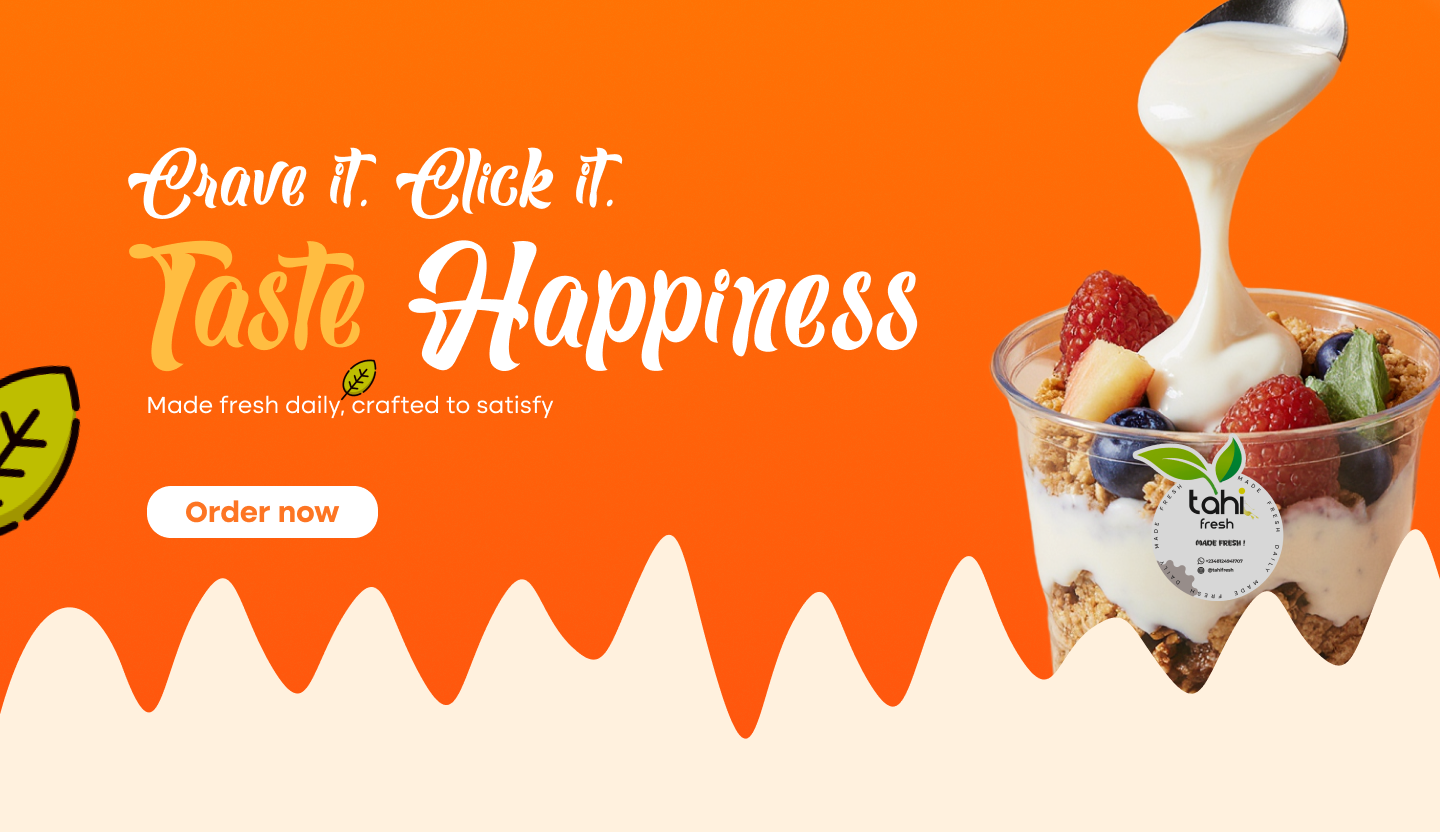
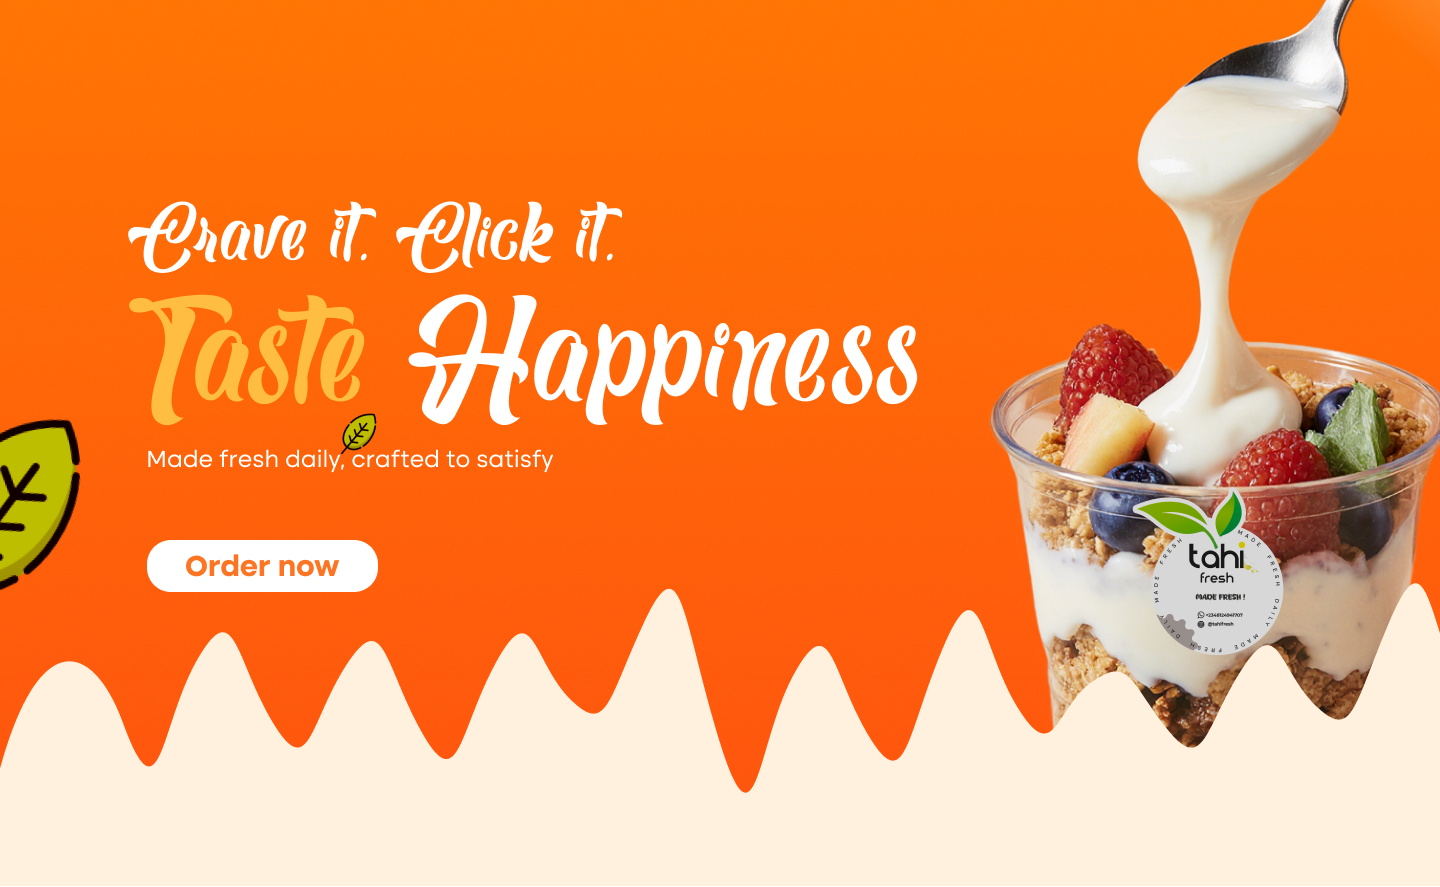
made some changes recommended by the business owner

diff --git a/src/components/navbar.tsx b/src/components/navbar.tsx
@@ -1,50 +1,82 @@
 
 import logo from "../assets/logo.svg"
 import cart from "../assets/cart.svg"
+import { useState } from "react";
 export default function Navbar() {
- 
+ const [isOpen, setIsOpen] = useState(false);
 
   return (
     
 
 
-<nav className="bg-white fixed w-full border-b-1  border-[#FF7B06] z-20 top-0 start-0 dark:bg-gray-900">
-  <div className="max-w-screen-xl flex flex-wrap justify-between items-center mx-auto py-2 px-4">
-    <a href="https://flowbite.com/" className="flex items-center space-x-3 rtl:space-x-reverse">
-        <img src={logo} className="h-[3rem]" alt=" Logo" />
-        
-    </a>
-    <button data-collapse-toggle="navbar-default" type="button" className="inline-flex items-center p-2 w-10 h-10 justify-center text-sm text-gray-500 rounded-lg md:hidden hover:bg-gray-100 focus:outline-none focus:ring-2 focus:ring-gray-200 dark:text-gray-400 dark:hover:bg-gray-700 dark:focus:ring-gray-600" aria-controls="navbar-default" aria-expanded="false">
-        <span className="sr-only">Open main menu</span>
-        <svg className="w-5 h-5" aria-hidden="true" xmlns="http://www.w3.org/2000/svg" fill="none" viewBox="0 0 17 14">
-            <path stroke="currentColor" stroke-linecap="round" stroke-linejoin="round" stroke-width="2" d="M1 1h15M1 7h15M1 13h15"/>
-        </svg>
-    </button>
-    <div className="hidden w-full md:block md:w-auto md:ml-[10rem] lg:ml-[20rem]" id="navbar-default">
-      <ul className="font-medium flex flex-col p-4 md:p-0 mt-4 border border-gray-100 rounded-lg  md:flex-row md:space-x-8 rtl:space-x-reverse md:mt-0 md:border-0  dark:bg-gray-800 md:dark:bg-gray-900 dark:border-gray-700">
-        <li>
-          <a href="#" className="block py-2 px-3 text-[#FF7B06]  rounded-sm  md:p-0  " aria-current="page">Home</a>
-        </li>
-        <li>
-          <a href="#" className="block py-2 px-3 text-[#FF7B06]  rounded-sm  md:p-0 ">About</a>
-        </li>
-        <li>
-          <a href="#" className="block py-2 px-3 text-[#FF7B06]  rounded-sm  md:p-0 ">Services</a>
-        </li>
-        <li>
-          <a href="#" className="block py-2 px-3 text-[#FF7B06]  rounded-sm  md:p-0 ">Contact</a>
-        </li>
-        <li className="lg:hidden">
-          <a href="#" className="block  text-[#FF7B06]  py-2 px-3 rounded-sm  md:p-0 "><img src={cart} alt="cart" className="h-[1rem] md:mt-[-0.8rem] "/></a>
-        </li>
-        
-      </ul>
-    </div>
-    <div className="lg:ml-auto hidden lg:block items-center space-x-3 rtl:space-x-reverse">
-        <img src={cart} alt="cart" className="h-[3rem] mt-3"/>
-    </div>
-  </div>
-</nav>
+<nav className="bg-white fixed w-full border-b border-[#FF7B06] z-20 top-0 start-0 ">
+      <div className="max-w-screen-xl flex flex-wrap justify-between items-center mx-auto py-2 px-4">
+        <a href="/" className="flex items-center space-x-3 rtl:space-x-reverse">
+          <img src={logo} className="h-[5rem]" alt="Logo" />
+        </a>
+
+        {/* Hamburger Button */}
+        <button
+          onClick={() => setIsOpen(!isOpen)}
+          type="button"
+          className="inline-flex items-center p-2 w-10 h-10 justify-center text-sm text-gray-500 rounded-lg md:hidden hover:bg-gray-100 focus:outline-none focus:ring-2 focus:ring-gray-200"
+          aria-controls="navbar-default"
+          aria-expanded={isOpen}
+        >
+          <span className="sr-only">Open main menu</span>
+          <svg className="w-5 h-5" aria-hidden="true" xmlns="http://www.w3.org/2000/svg" fill="none" viewBox="0 0 17 14">
+            <path
+              stroke="currentColor"
+              strokeLinecap="round"
+              strokeLinejoin="round"
+              strokeWidth="2"
+              d="M1 1h15M1 7h15M1 13h15"
+            />
+          </svg>
+        </button>
+
+        {/* Main Menu */}
+        <div
+          className={`w-full md:block md:w-auto md:ml-[10rem] lg:ml-[20rem] ${
+            isOpen ? "block" : "hidden"
+          }`}
+          id="navbar-default"
+        >
+          <ul className="font-medium flex flex-col p-4 md:p-0 mt-4 border border-gray-100 rounded-lg md:flex-row md:space-x-8 rtl:space-x-reverse md:mt-0 md:border-0 ">
+            <li>
+              <a href="#" className="block py-2 px-3 text-[#cc6205] rounded-sm md:p-0">
+                Home
+              </a>
+            </li>
+            <li>
+              <a href="#" className="block py-2 px-3 text-[#cc6205] rounded-sm md:p-0">
+                About
+              </a>
+            </li>
+            <li>
+              <a href="#" className="block py-2 px-3 text-[#cc6205] rounded-sm md:p-0">
+                Services
+              </a>
+            </li>
+            <li>
+              <a href="#" className="block py-2 px-3 text-[#cc6205] rounded-sm md:p-0">
+                Contact
+              </a>
+            </li>
+            <li className="lg:hidden">
+              <a href="#" className="block text-[#cc6205] py-2 px-3 rounded-sm md:p-0">
+                <img src={cart} alt="cart" className="h-[2rem] md:mt-[-0.2rem]" />
+              </a>
+            </li>
+          </ul>
+        </div>
+
+        {/* Cart Icon (for large screens) */}
+        <div className="lg:ml-auto hidden lg:block items-center space-x-3 rtl:space-x-reverse">
+          <img src={cart} alt="cart" className="h-[2.5rem] mt-2" />
+        </div>
+      </div>
+    </nav>
 
 
 

diff --git a/src/pages/index.tsx b/src/pages/index.tsx
@@ -7,26 +7,25 @@ export default function Index() {
       <div className="">
         <Navbar />
       </div>
-      <div className="h-10"></div>
      <div className="hero-section">
-        <img src={hero} alt="" className=" w-full"/>
+        <img src={hero} alt="" className="mt-[6rem] w-full"/>
      </div>
      <div className="shop">
         <div className="mt-7">
-          <h1 className="text-6xl text-[#FF7B06] font-bold text-center center-text">Our <span className="underline underline-offset-10">Menu</span> </h1>
+          <h1 className="lg:text-6xl text-3xl text-[#FF7B06] font-bold text-center center-text">Our <span className="underline underline-offset-10">Menu</span> </h1>
         </div>
         <div>
           <div className="flex flex-wrap justify-center items-center gap-10 mt-5">
-            <span className="text-2xl text-[#1F1E1E] shop-header">PARFAIT</span>
-            <span className="text-2xl text-[#1F1E1E] shop-header">YOGHURT</span>
-            <span className="text-2xl text-[#1F1E1E] shop-header">CAKE</span>
-            <span className="text-2xl text-[#1F1E1E] shop-header">SANDWICH</span>
-            <span className="text-2xl text-[#1F1E1E] shop-header">JUICES</span>
-            <span className="text-2xl text-[#1F1E1E] shop-header">SNACKS</span>
+            <span className="lg:text-2xl text-[#1F1E1E] shop-header">PARFAIT</span>
+            <span className="lg:text-2xl text-[#1F1E1E] shop-header">YOGHURT</span>
+            <span className="lg:text-2xl text-[#1F1E1E] shop-header">CAKE</span>
+            <span className="lg:text-2xl text-[#1F1E1E] shop-header">SANDWICH</span>
+            <span className="lg:text-2xl text-[#1F1E1E] shop-header">JUICES</span>
+            <span className="lg:text-2xl text-[#1F1E1E] shop-header">SNACKS</span>
           </div>
         </div>
         <div>
-          <div className="grid grid-cols-1 md:grid-cols-2 lg:grid-cols-4 mx-3 lg:mx-[100px] gap-10 ">
+          <div className="grid grid-cols-2 md:grid-cols-2 lg:grid-cols-4 mx-3 lg:mx-[100px] gap-5 lg:gap-10 ">
             <div>
               <div>
                 <img src={cup} alt="" className="w-full mt-10"/>
@@ -60,7 +59,7 @@ export default function Index() {
               </div>
             </div>
           </div>
-          <div className="grid grid-cols-1 md:grid-cols-2 lg:grid-cols-4 mx-3 lg:mx-[100px] gap-10 ">
+          <div className="grid grid-cols-2 md:grid-cols-2 lg:grid-cols-4 mx-3 lg:mx-[100px] gap-5 lg:gap-10 ">
             <div>
               <div>
                 <img src={cup} alt="" className="w-full mt-10"/>
@@ -94,7 +93,7 @@ export default function Index() {
               </div>
             </div>
           </div>
-          <div className="grid grid-cols-1 md:grid-cols-2 lg:grid-cols-4 mx-3 lg:mx-[100px] gap-10 ">
+          <div className="grid grid-cols-2 md:grid-cols-2 lg:grid-cols-4 mx-3 lg:mx-[100px] gap-5 lg:gap-10 ">
             <div>
               <div>
                 <img src={cup} alt="" className="w-full mt-10"/>
